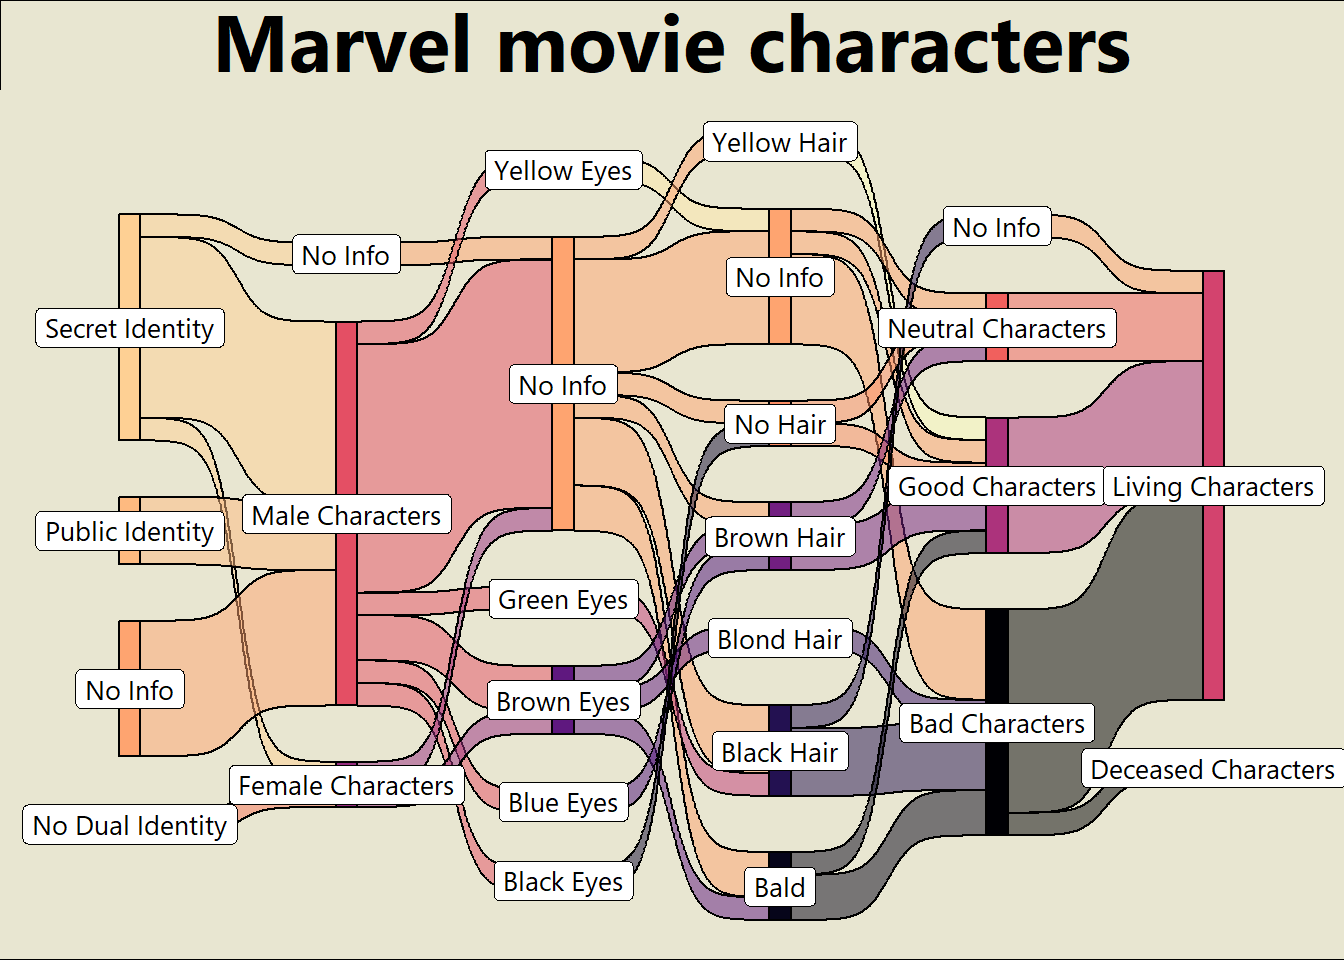
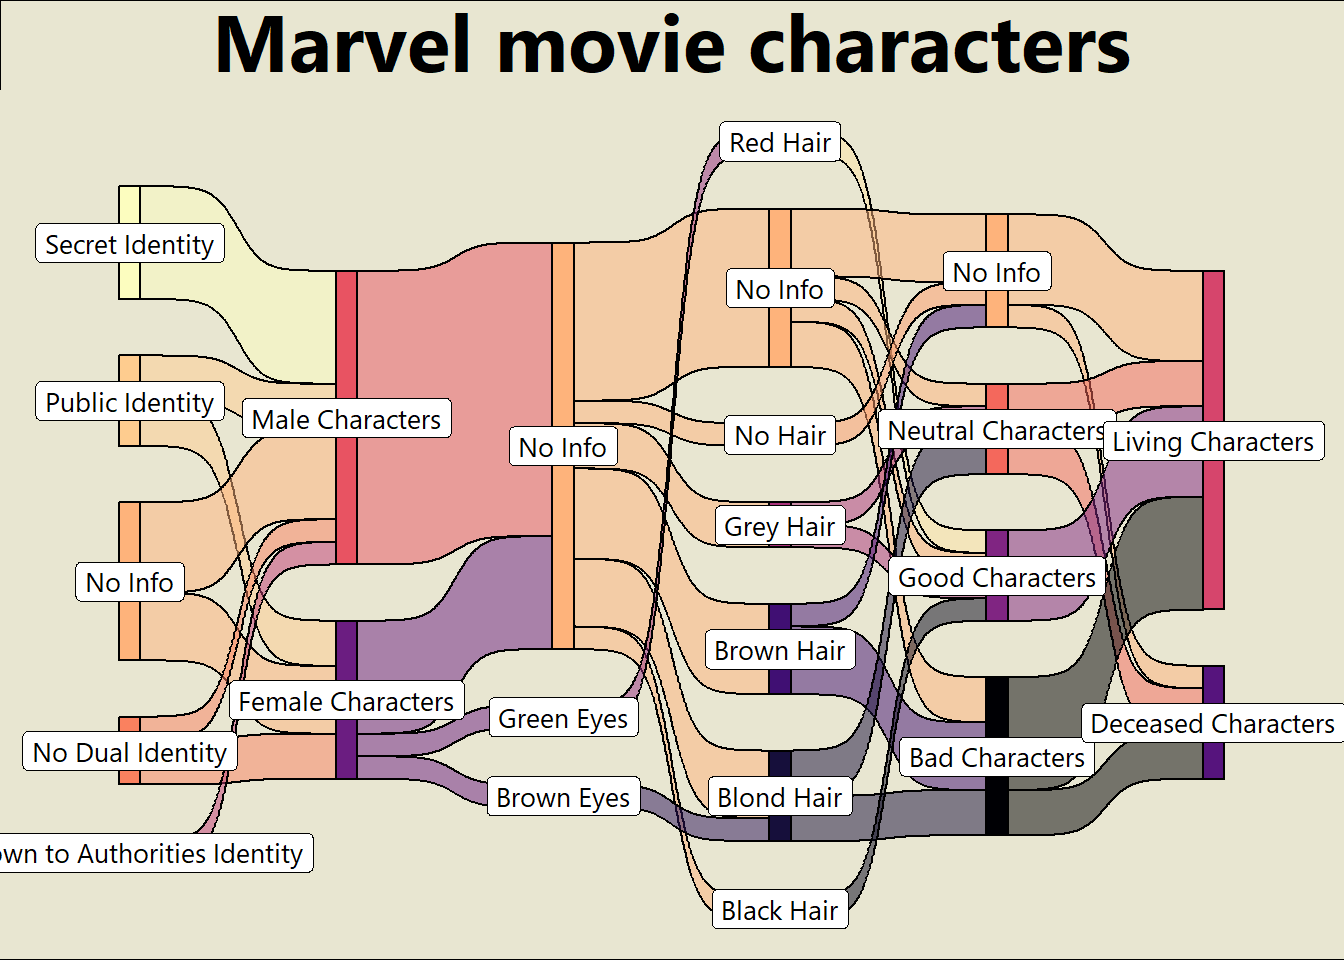
update image

diff --git a/_site/posts/30-days-charts-challenge-day01/index.html b/_site/posts/30-days-charts-challenge-day01/index.html
@@ -373,18 +373,18 @@ $Year
 <span id="cb17-4"><a href="#cb17-4" aria-hidden="true" tabindex="-1"></a>  <span class="fu">make_long</span>(<span class="st">"ID"</span>,<span class="st">"SEX"</span>,<span class="st">"EYE"</span>,<span class="st">"HAIR"</span>,<span class="st">"ALIGN"</span>,<span class="st">"ALIVE"</span>))</span></code><button title="Copy to Clipboard" class="code-copy-button"><i class="bi"></i></button></pre></div>
 <div class="cell-output cell-output-stdout">
 <pre><code># A tibble: 120 x 4
-   x     node                next_x next_node          
-   &lt;fct&gt; &lt;chr&gt;               &lt;fct&gt;  &lt;chr&gt;              
- 1 ID    Secret Identity     SEX    Male Characters    
- 2 SEX   Male Characters     EYE    No Info            
- 3 EYE   No Info             HAIR   Bald               
- 4 HAIR  Bald                ALIGN  Bad Characters     
- 5 ALIGN Bad Characters      ALIVE  Deceased Characters
- 6 ALIVE Deceased Characters &lt;NA&gt;   &lt;NA&gt;               
- 7 ID    No Info             SEX    Male Characters    
- 8 SEX   Male Characters     EYE    Yellow Eyes        
- 9 EYE   Yellow Eyes         HAIR   No Info            
-10 HAIR  No Info             ALIGN  Bad Characters     
+   x     node              next_x next_node        
+   &lt;fct&gt; &lt;chr&gt;             &lt;fct&gt;  &lt;chr&gt;            
+ 1 ID    No Info           SEX    Female Characters
+ 2 SEX   Female Characters EYE    No Info          
+ 3 EYE   No Info           HAIR   Brown Hair       
+ 4 HAIR  Brown Hair        ALIGN  No Info          
+ 5 ALIGN No Info           ALIVE  Living Characters
+ 6 ALIVE Living Characters &lt;NA&gt;   &lt;NA&gt;             
+ 7 ID    Secret Identity   SEX    Male Characters  
+ 8 SEX   Male Characters   EYE    No Info          
+ 9 EYE   No Info           HAIR   Brown Hair       
+10 HAIR  Brown Hair        ALIGN  Bad Characters   
 # ... with 110 more rows</code></pre>
 </div>
 </div>

diff --git a/_site/index.html b/_site/index.html
@@ -196,9 +196,9 @@ ul.task-list li input[type="checkbox"] {
 <a href="./posts/stats-with-vector/index.html"> </a>
 </div>
 </div>
-<div class="quarto-post image-right" data-index="1" data-categories="R,Dataviz" data-listing-date-sort="NaN" data-listing-file-modified-sort="1680369370397" data-listing-reading-time-sort="2.99">
+<div class="quarto-post image-right" data-index="1" data-categories="R,Dataviz" data-listing-date-sort="NaN" data-listing-file-modified-sort="1680369859994" data-listing-reading-time-sort="2.99">
 <div class="thumbnail">
-<p><a href="./posts/30-days-charts-challenge-day01/index.html"> <img src="./posts/30-days-charts-challenge-day01/blackboard-gf94387624_1280.png" class="thumnail-image"> </a></p>
+<p><a href="./posts/30-days-charts-challenge-day01/index.html"> <img src="./posts/30-days-charts-challenge-day01/Marvel_Logo.svg" class="thumnail-image"> </a></p>
 </div>
 <div class="body">
 <a href="./posts/30-days-charts-challenge-day01/index.html">
